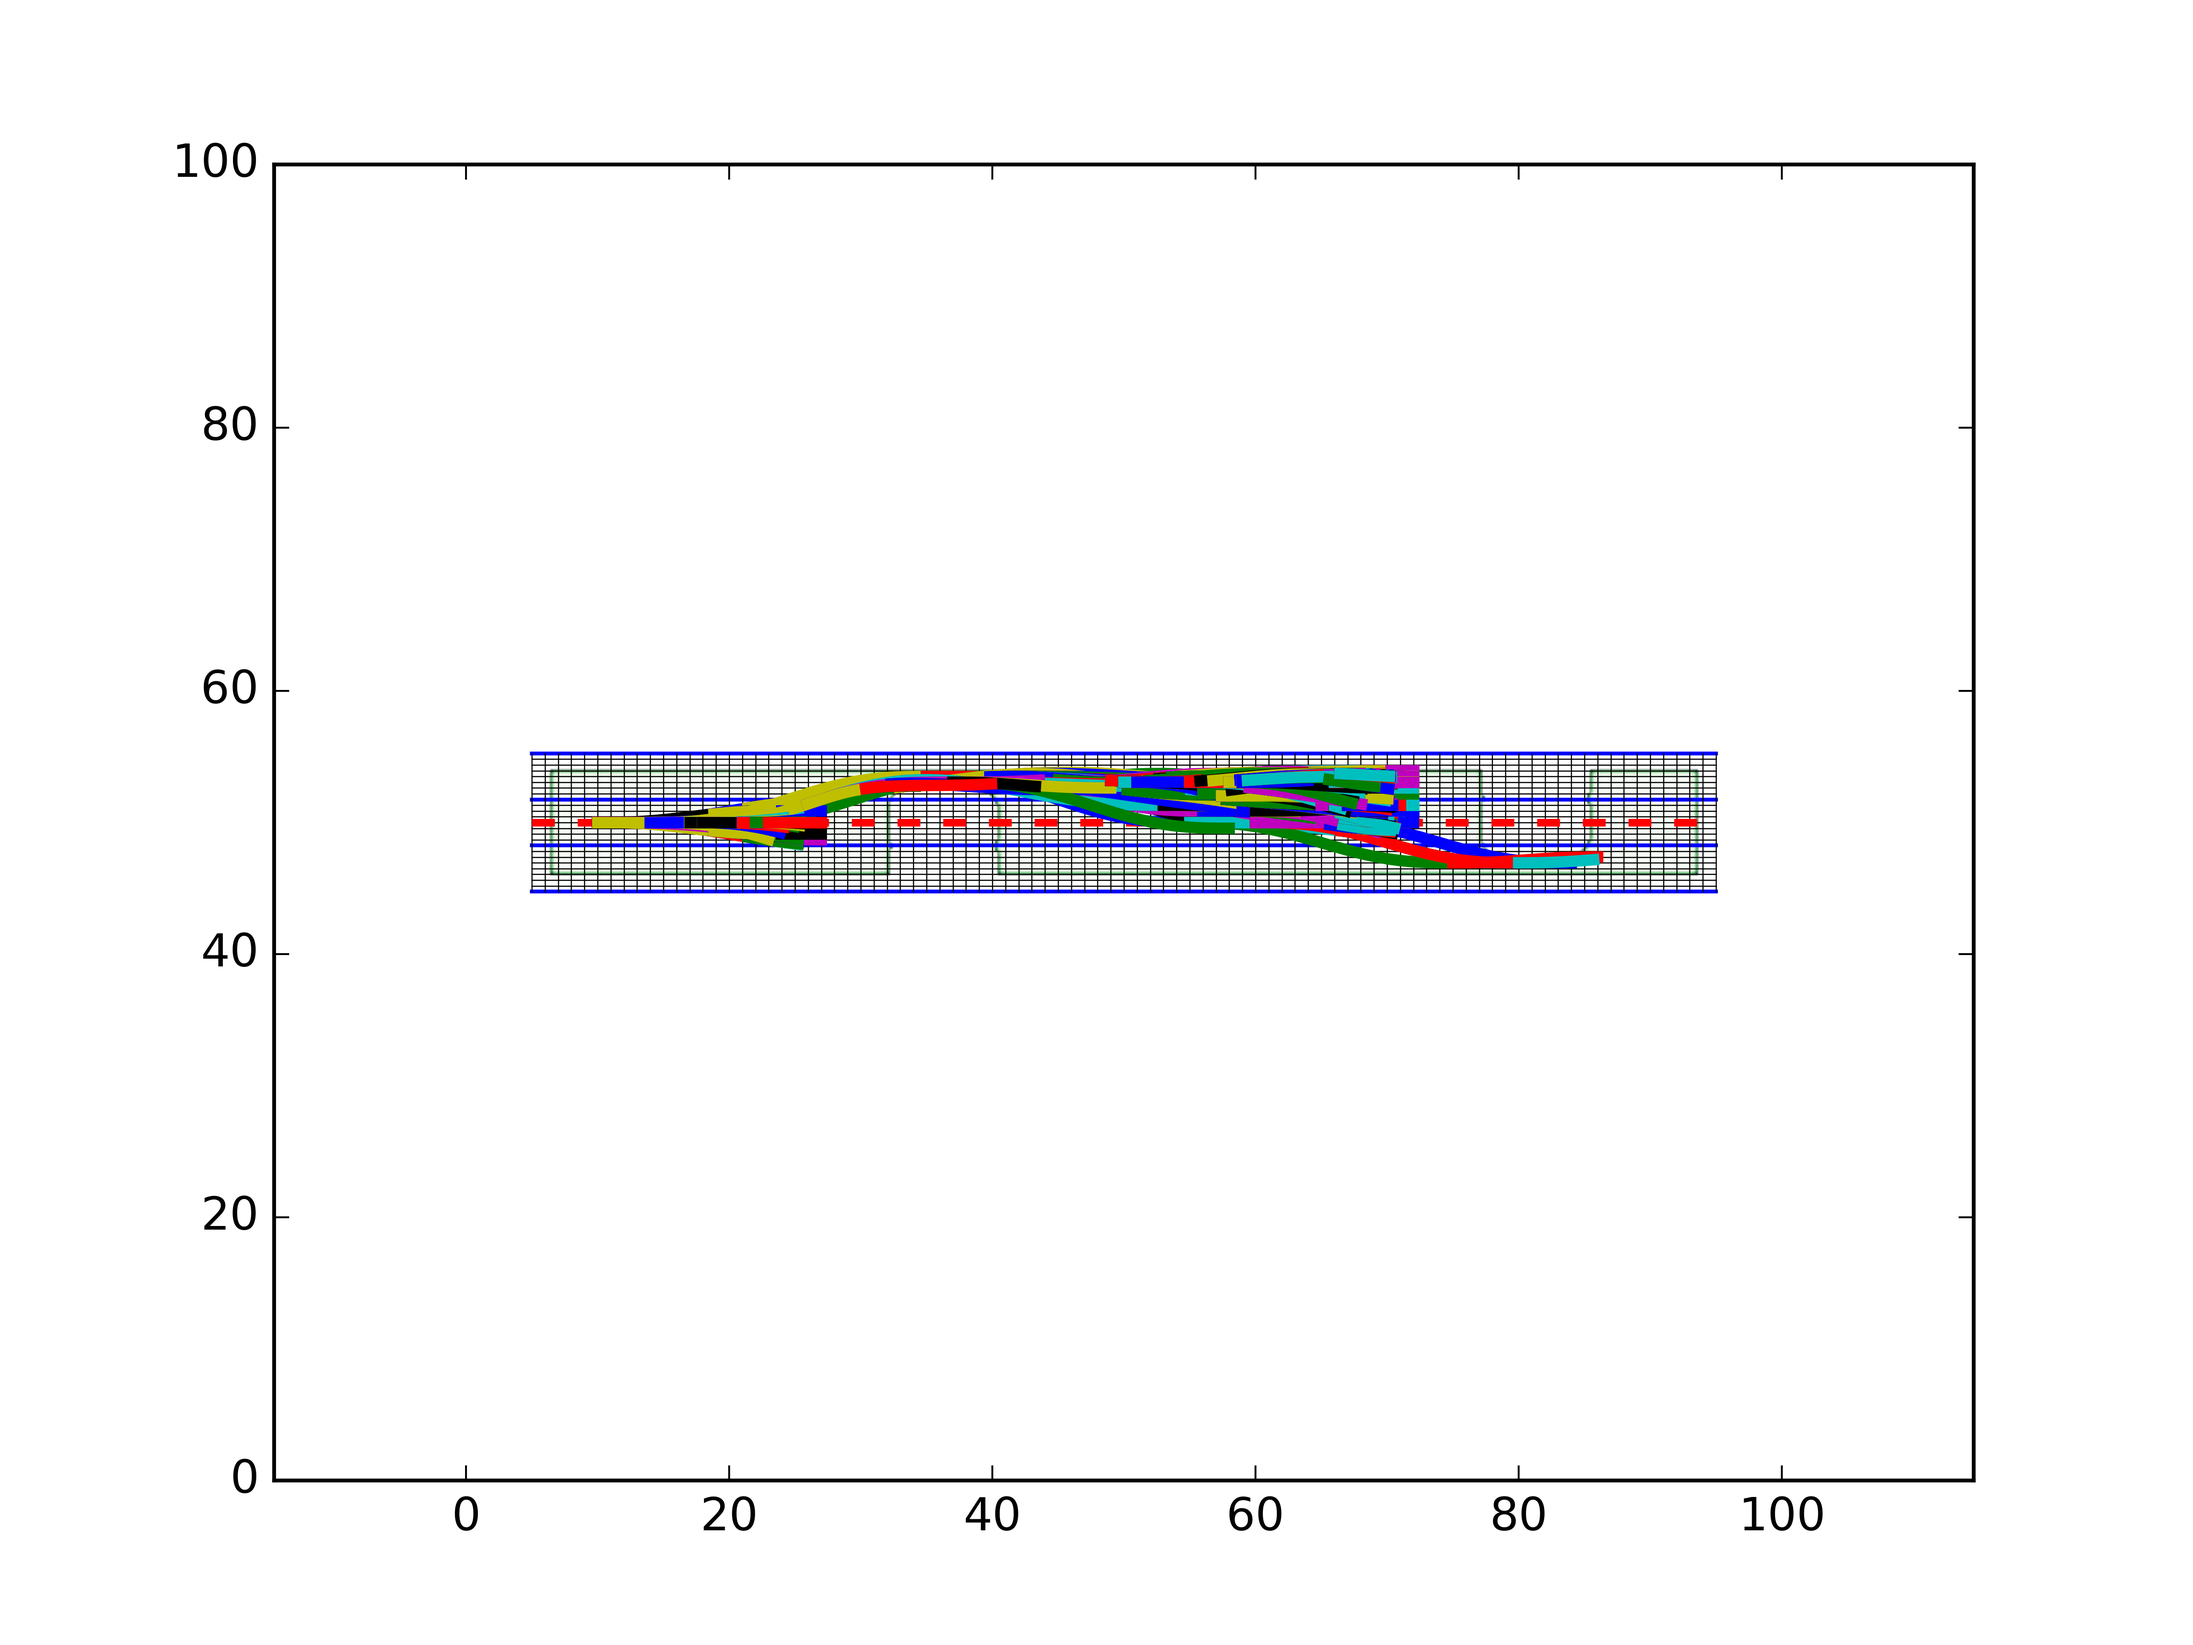
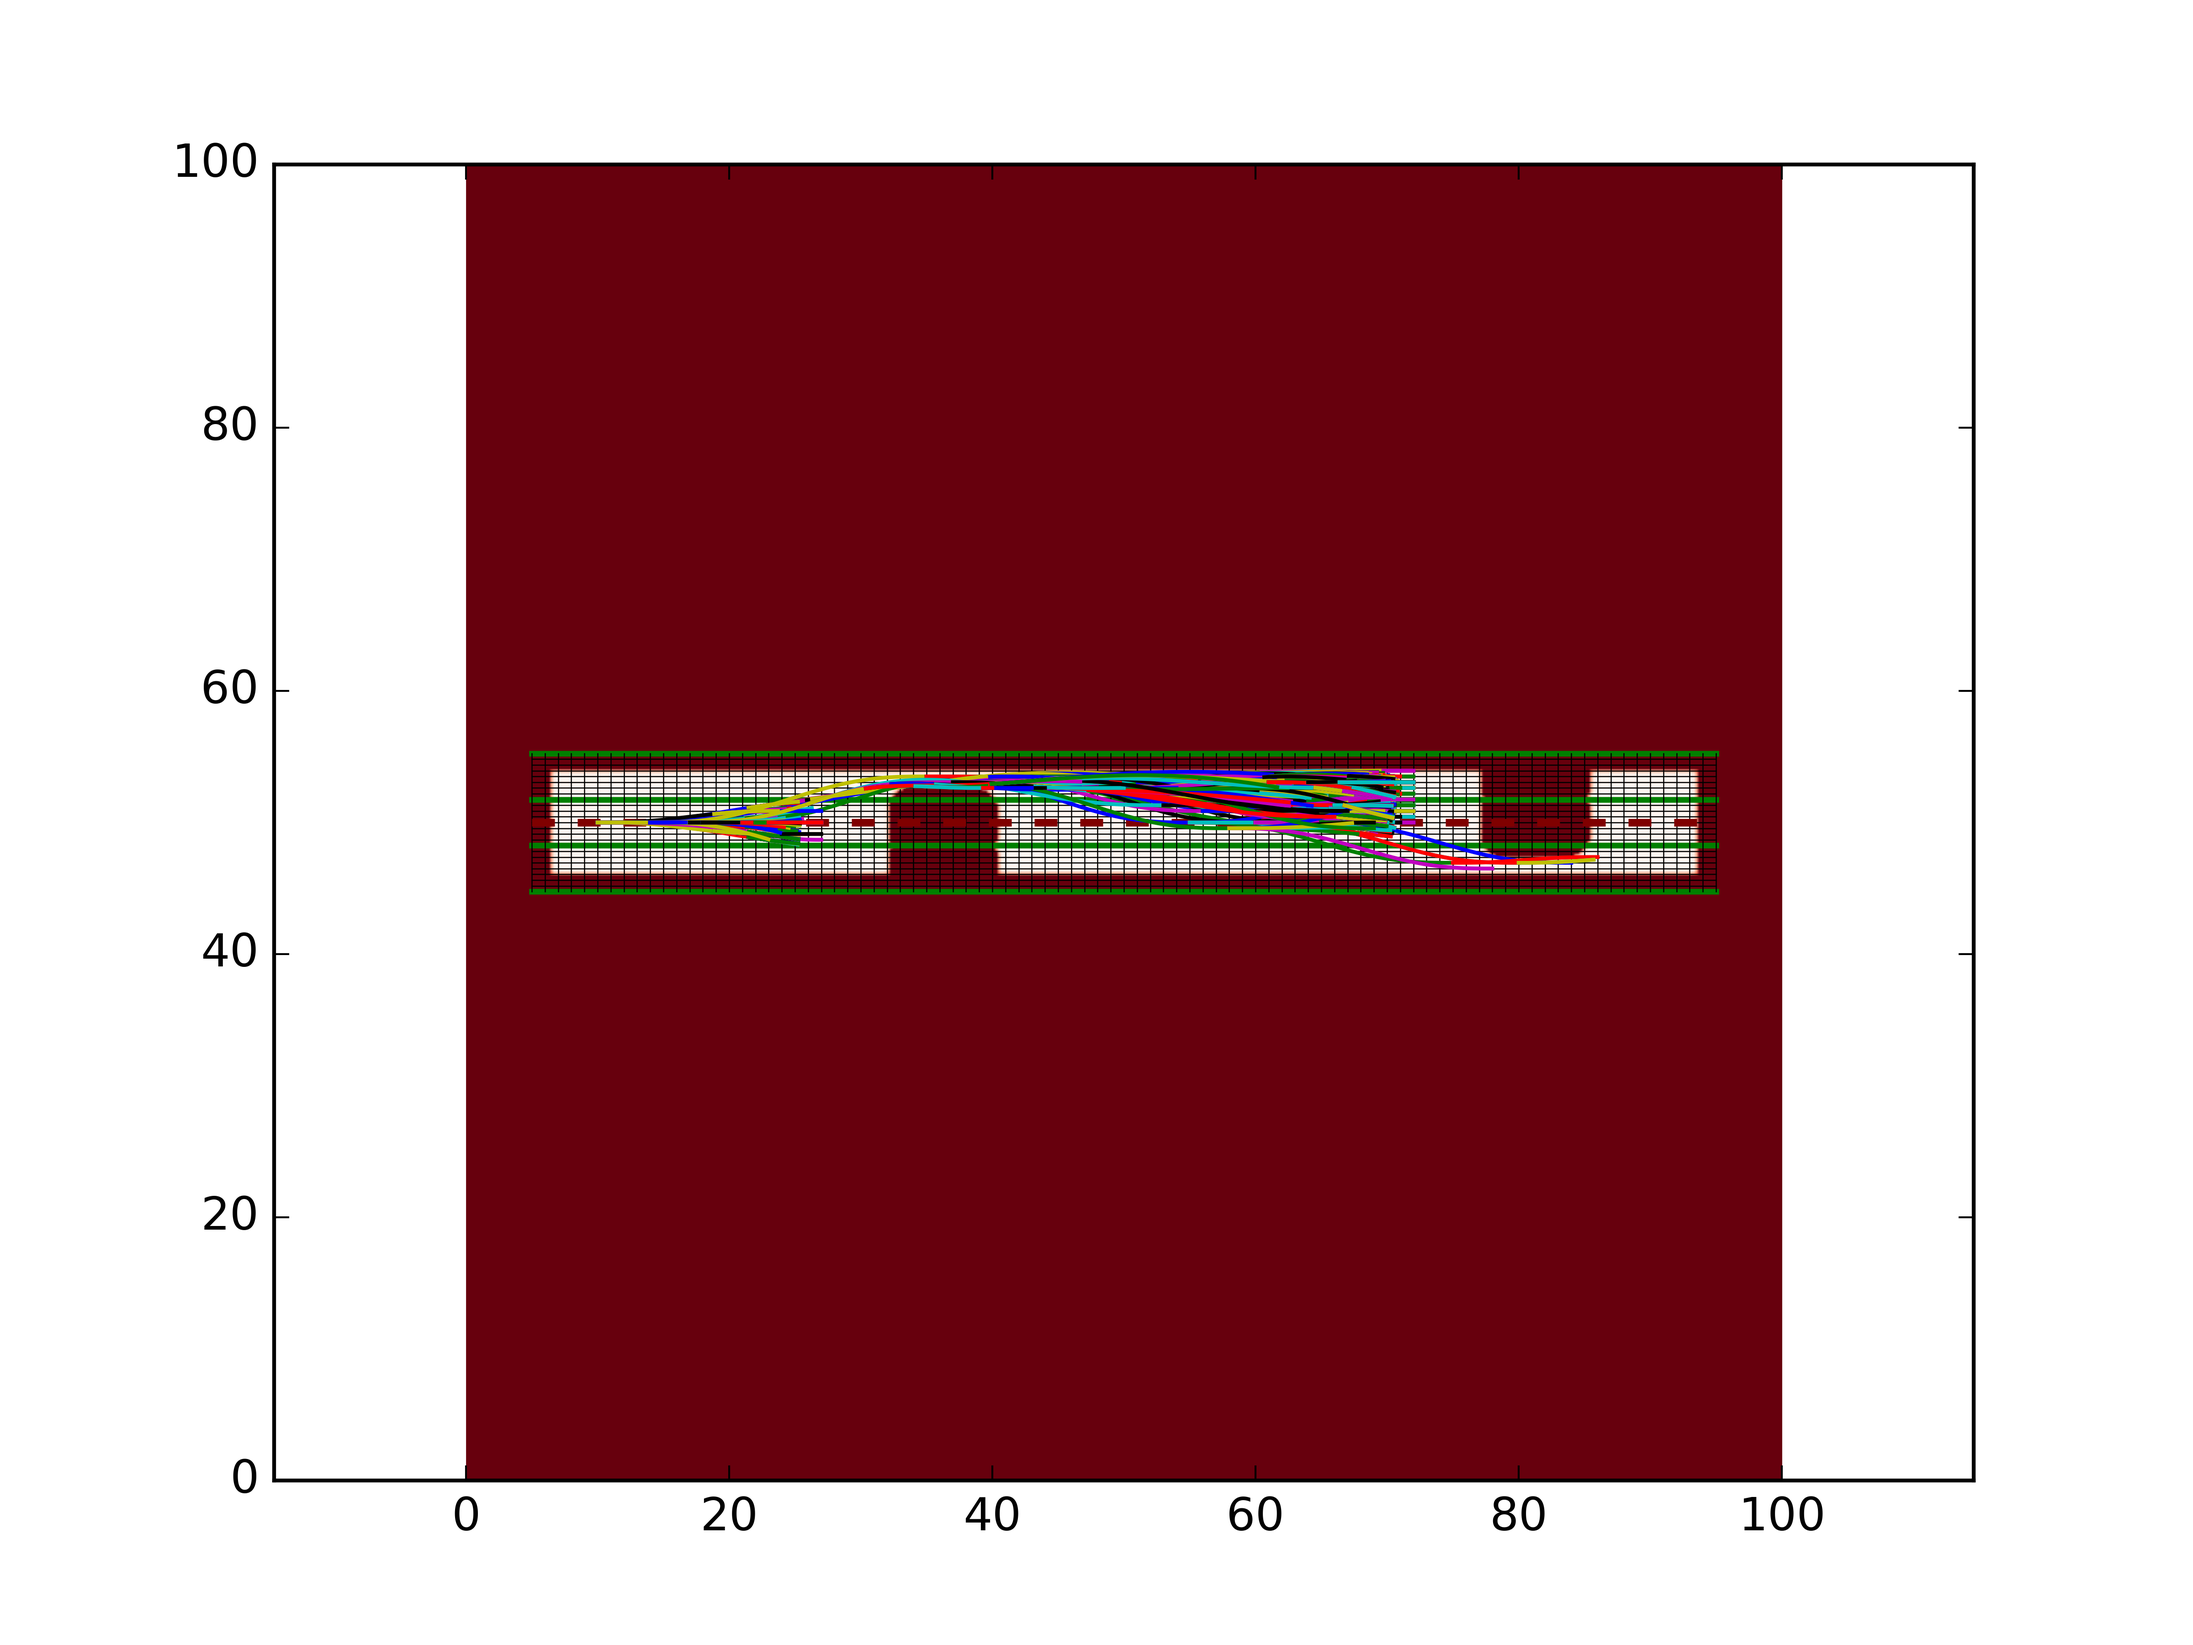
small changes

diff --git a/ScenarioBuilder.py b/ScenarioBuilder.py
@@ -132,7 +132,7 @@ if __name__ == '__main__':
 
     for i in range(road.grid_num_lateral+1):
         if (i % road.grid_num_per_lane) == 0:
-            ax1.plot(road.longitudinal_lines[:,2*i], road.longitudinal_lines[:,2*i+1], color='blue', linewidth=1.)
+            ax1.plot(road.longitudinal_lines[:,2*i], road.longitudinal_lines[:,2*i+1], color='green', linewidth=1.5)
         else:
             ax1.plot(road.longitudinal_lines[:,2*i], road.longitudinal_lines[:,2*i+1], color='black', linewidth=0.3)
     for i in range(road.grid_num_longitudinal+1):
@@ -192,8 +192,9 @@ if __name__ == '__main__':
     # plot
     # fig = plt.figure()
     # ax1 = fig.add_subplot(111)
-    ax1.imshow(cost_map, cmap=plt.cm.Greens, origin="lower",extent=(0.,ws.resolution*ws.row,0.,ws.resolution*ws.column))
-    ax1.plot(center_line[:,1], center_line[:,2], color='red', linestyle='--', linewidth=2.)
+    costmap_plot = np.where( cost_map >1., 1., cost_map)
+    ax1.imshow(costmap_plot, cmap=plt.cm.Reds, origin="lower",extent=(0.,ws.resolution*ws.row,0.,ws.resolution*ws.column))
+    ax1.plot(center_line[:,1], center_line[:,2], color='maroon', linestyle='--', linewidth=2.)
 
     # action space
     # print('q0:{0}'.format(cfg0))
@@ -254,9 +255,9 @@ if __name__ == '__main__':
                             next_state.update(cost, traj, road)
                             state_list.append(next_state)
                             # plot
-                            ax1.plot(traj[:,2], traj[:,3],  linewidth=3.)
+                            ax1.plot(traj[:,2], traj[:,3],  linewidth=1.)
                             # ax1.text(traj[-1,2], traj[-1,3],'{0:.2f}'.format(cost))
-        if count > 5000:
+        if count > 6000:
             break
     print(count)
 
